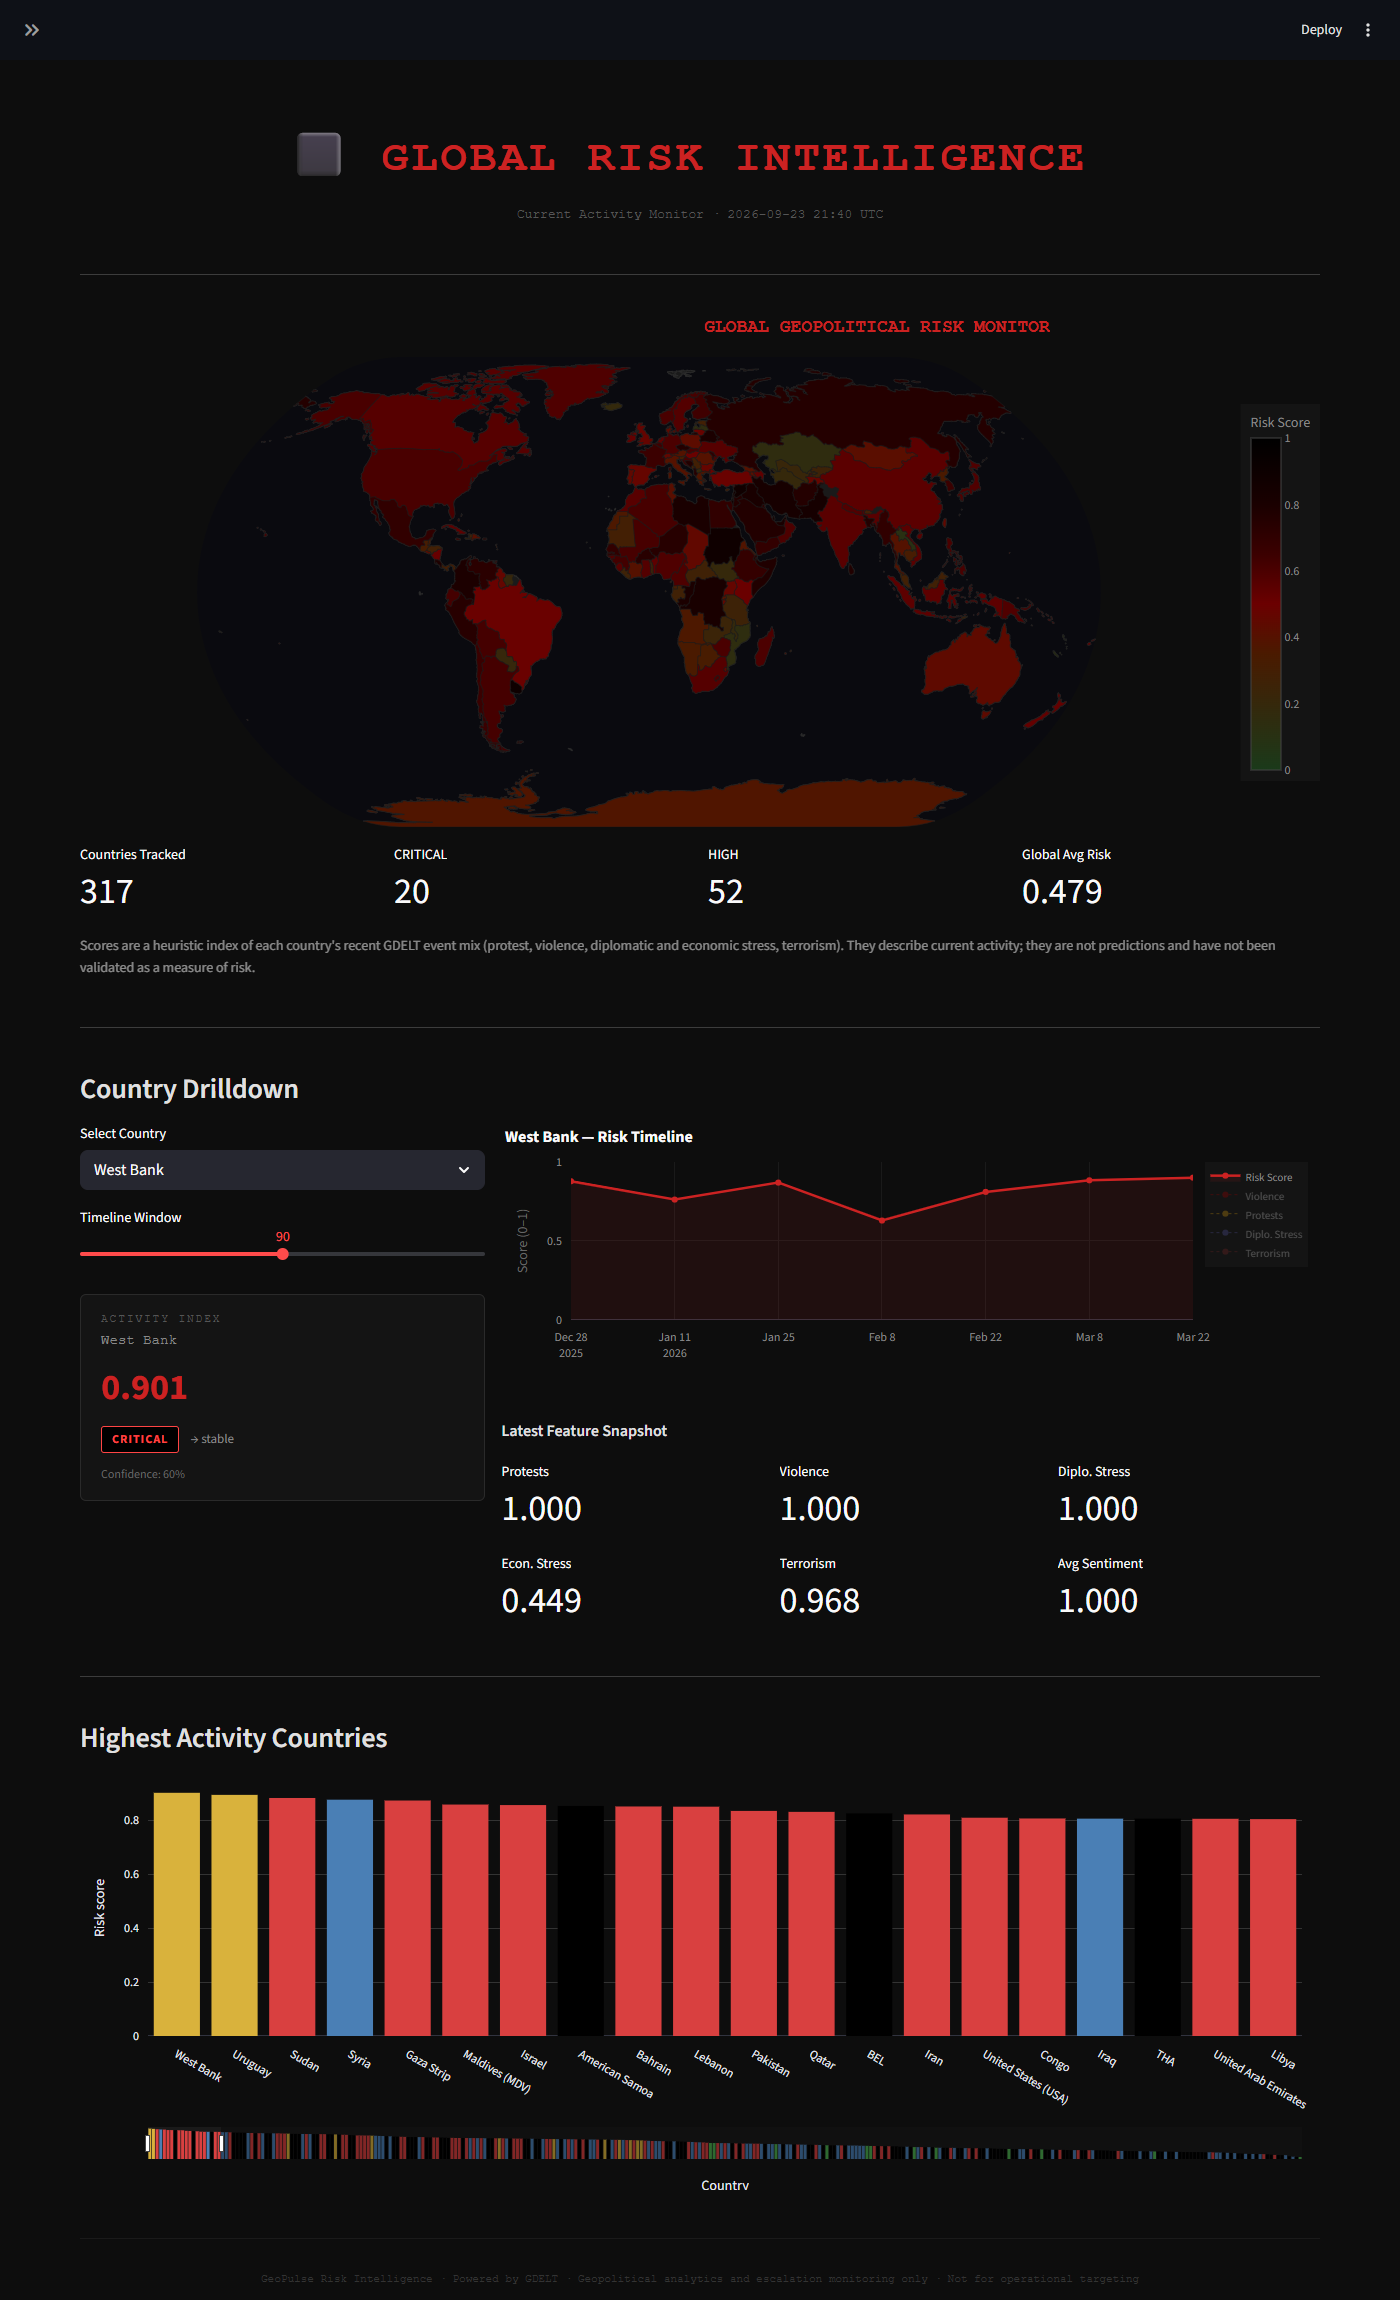
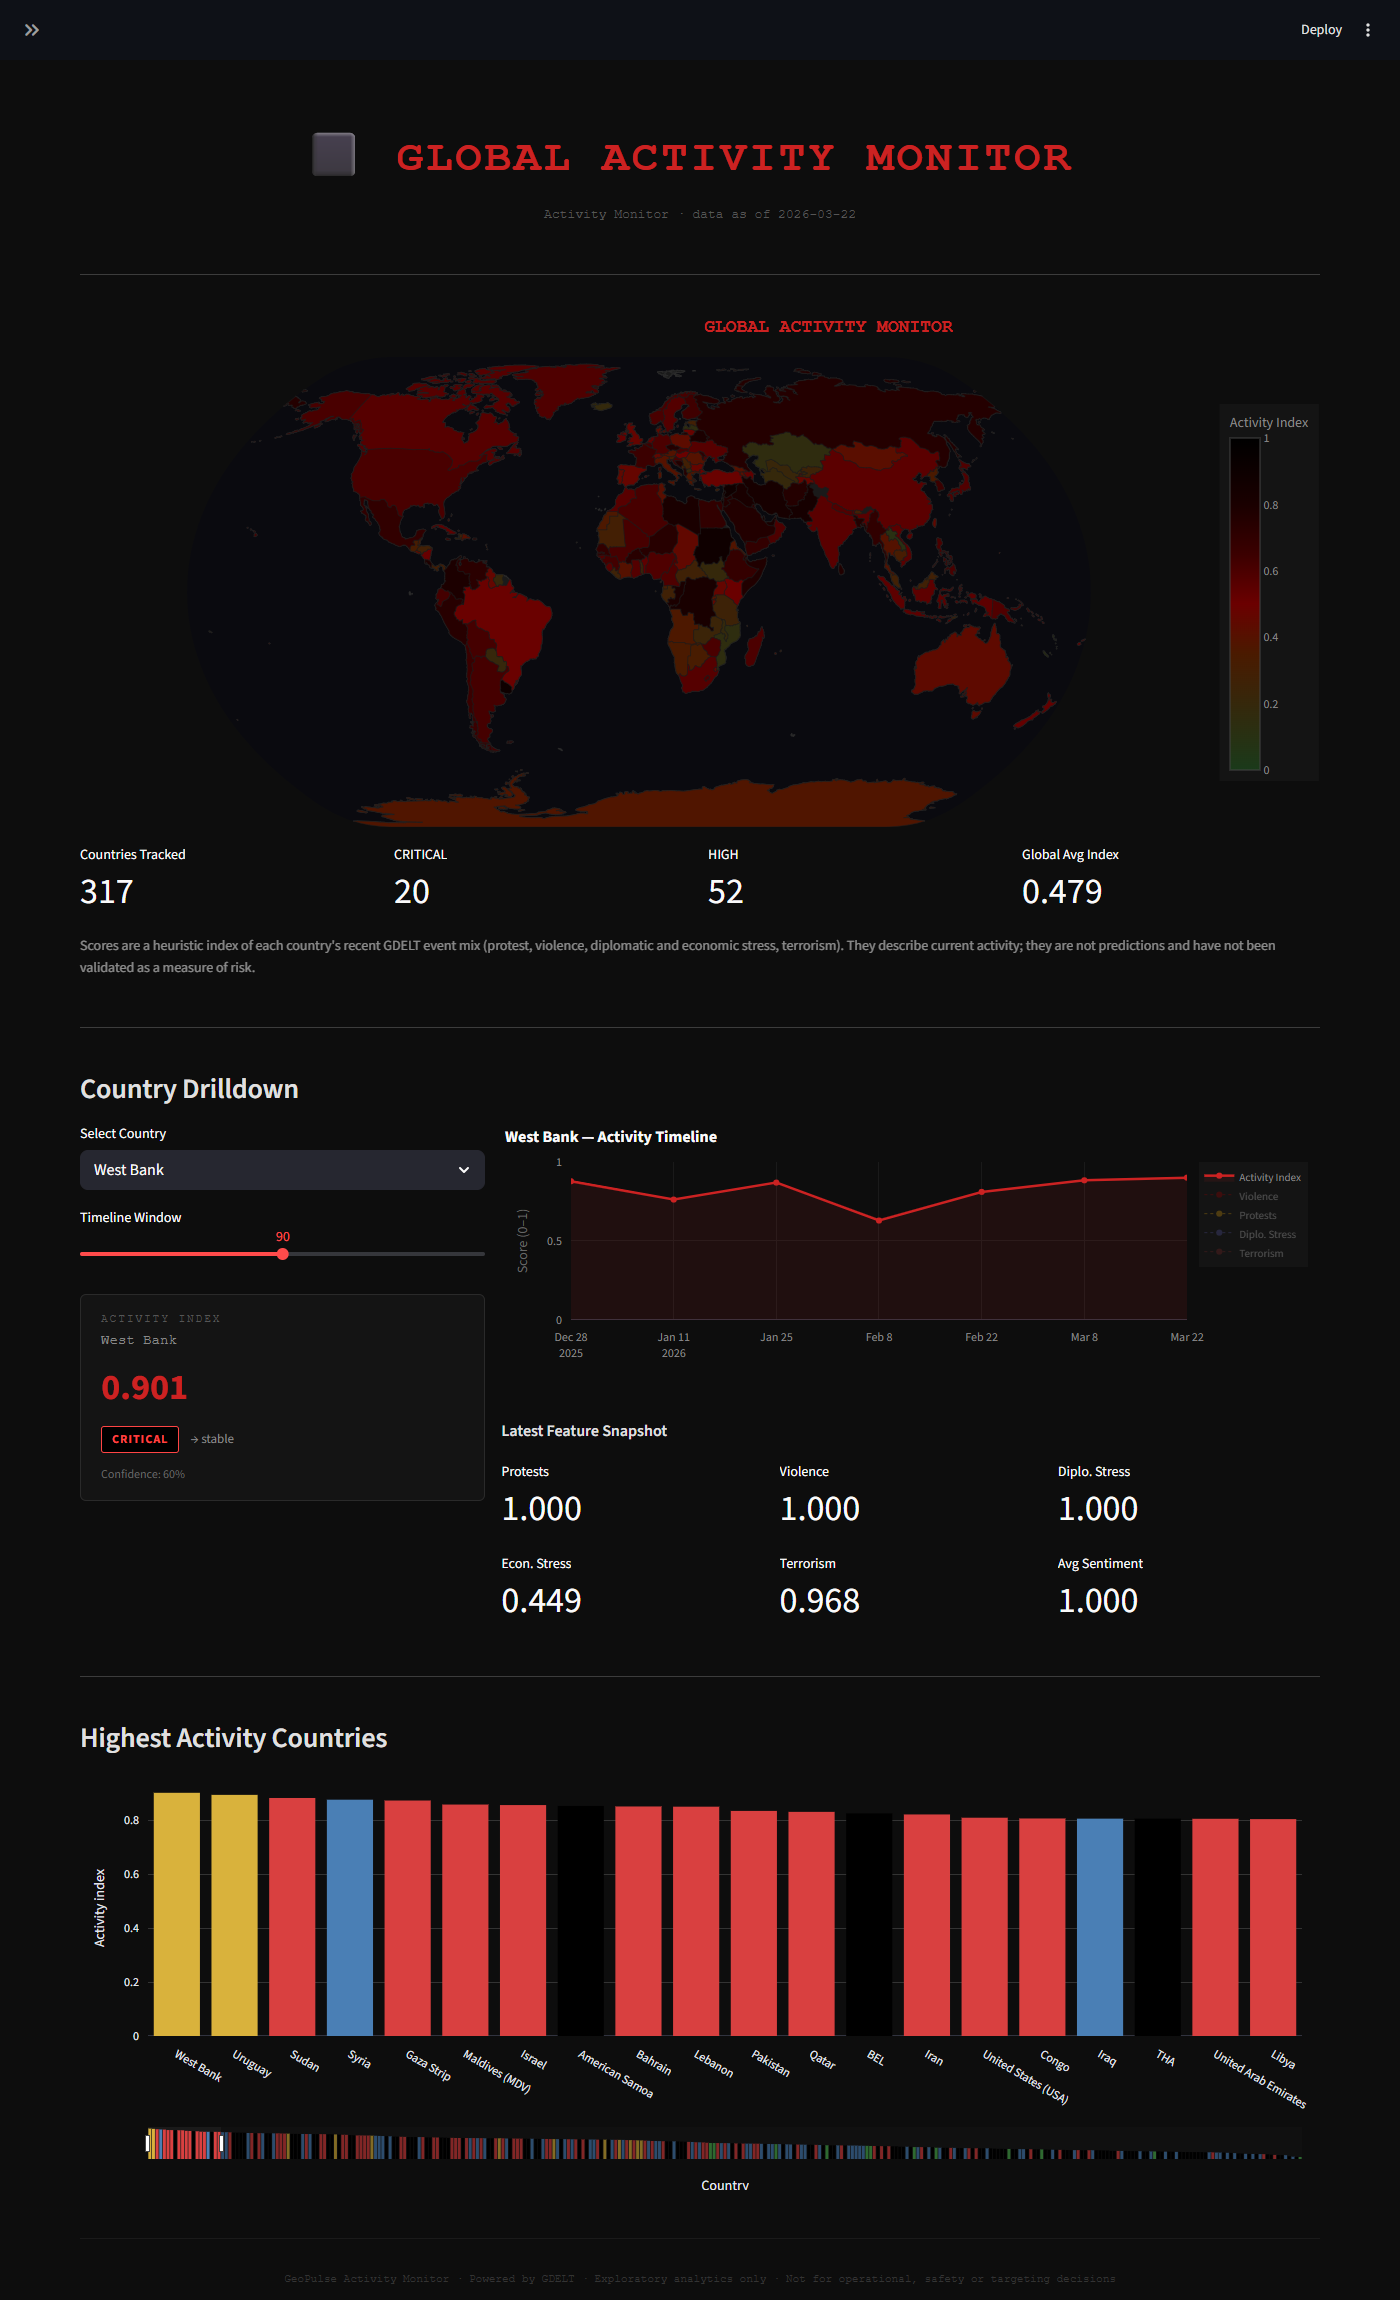
docs: final README cleanup and refreshed screenshots
- Clarify that Neo4j holds a copy of the event graph but no graph analysis has
  been built, and that goldstein/sentiment are excluded from every scoring path
  that reads them back from the database.
- Quick start: add the coverage_tier migration and graph schema, correct the
  dashboard port, and say which pages need which data.
- Re-shoot Home and Country Drilldown with the new wording.
- Replace absolute local paths in the evaluation result JSONs with
  repo-relative ones.

diff --git a/README.md b/README.md
@@ -38,7 +38,8 @@ The Home bar chart is colored by trend: red increasing, blue decreasing, yellow 
 
 - **The activity index is a heuristic.** Weights are hand-picked and unvalidated. See [`scoring/composite.py`](scoring/composite.py), the single implementation of the formula; weights come from `configs/config.yaml`.
 - **Sparse coverage.** GDELT coverage is uneven, so countries with little coverage score less reliably.
-- **`avg_sentiment` and `avg_goldstein` are inconsistent** across the pipelines that write them (seed script, live ingestion, POLECAT), so those two signals are left out of the live scoring paths.
+- **`avg_sentiment` and `avg_goldstein` are inconsistent** across the pipelines that write them (seed script, live ingestion, POLECAT), so those two signals are left out of every scoring path that reads them back from the database. Only the parquet-seeding script, which sees the original values, uses them.
+- **No network analysis yet.** The event graph is loaded into Neo4j and its schema is defined, but no graph analysis (communities, influence over time) has been built. The Graph Data Science plugin is not installed.
 - **Data window.** The seeded activity index ends in March 2026 and the `graph.*` event data in February 2026.
 - **Country Summary is slow** (about 20-60 seconds): every figure is a live aggregate over the full event table. A materialized per-country rollup would fix this.
 - **Counterparts are sparse.** GDELT rarely gives an explicit country for the other side of an interaction, so by-type counterpart breakdowns are often empty.
@@ -66,7 +67,7 @@ FastAPI backend   /global/*, /country/*, /intelligence/*
 Streamlit dashboard   (Home, Country Drilldown, Global Intelligence)
 ```
 
-Neo4j is optional and only used for graph analysis work. The graph schema is documented in [`docs/neo4j_schema.md`](docs/neo4j_schema.md), and the target use case in [`usecase.md`](usecase.md).
+Neo4j is optional. It currently holds a copy of the event graph (loaded with `ingestion/neo4j_migrator.py`) and nothing in the dashboard reads from it. The graph schema is documented in [`docs/neo4j_schema.md`](docs/neo4j_schema.md), and the target use case in [`usecase.md`](usecase.md).
 
 **Stack:** Python 3.10+, FastAPI + Uvicorn, PostgreSQL, Streamlit + Plotly, Neo4j (optional).
 
@@ -74,17 +75,37 @@ Neo4j is optional and only used for graph analysis work. The graph schema is doc
 
 ## Quick start
 
-**Prerequisites:** Python 3.10+, PostgreSQL with the schema from `docker/init.sql` (plus `scripts/init_graph_schema.sql` for the Global Intelligence tables).
+**Prerequisites:** Python 3.10+ and PostgreSQL. Neo4j is only needed for the optional graph load.
 
 ```bash
 pip install -r requirements.txt
 cp .env.example .env          # set POSTGRES_USER / PASSWORD / DB
-python scripts/seed_db_from_cache.py   # seed the activity index from data/real_cache
-python -m uvicorn backend.main:app --port 8000
-streamlit run streamlit_app/app.py --server.port 8502
 ```
 
-On Windows, `run_app.ps1` starts both. The Global Intelligence tabs need the `graph.*` tables populated (`ingestion/graph_builder.py`).
+Create the database and schema (as a Postgres superuser):
+
+```sql
+CREATE ROLE gldt WITH LOGIN PASSWORD 'gldt_secret';
+CREATE DATABASE gdelt_risk OWNER gldt;
+\c gdelt_risk
+\i docker/init.sql
+\i docker/migrations/001_add_coverage_tier.sql
+\i scripts/init_graph_schema.sql      -- graph.* tables used by Global Intelligence
+```
+
+Then load data and run:
+
+```bash
+python scripts/seed_db_from_cache.py    # activity index, from data/real_cache (no download needed)
+python -m uvicorn backend.main:app --port 8000
+streamlit run streamlit_app/app.py --server.port 8501
+```
+
+On Windows, `run_app.ps1` starts both (backend on 8000, dashboard on 8501).
+
+- **Home and Country Drilldown** work after the seed step.
+- **Global Intelligence** also needs the `graph.*` tables populated from GDELT events (`ingestion/graph_builder.py`); without them its tabs are empty.
+- **Neo4j (optional):** `python scripts/init_neo4j_schema.py`, then `ingestion/neo4j_migrator.py`. Connection settings are in `.env`.
 
 ## Tests
 
